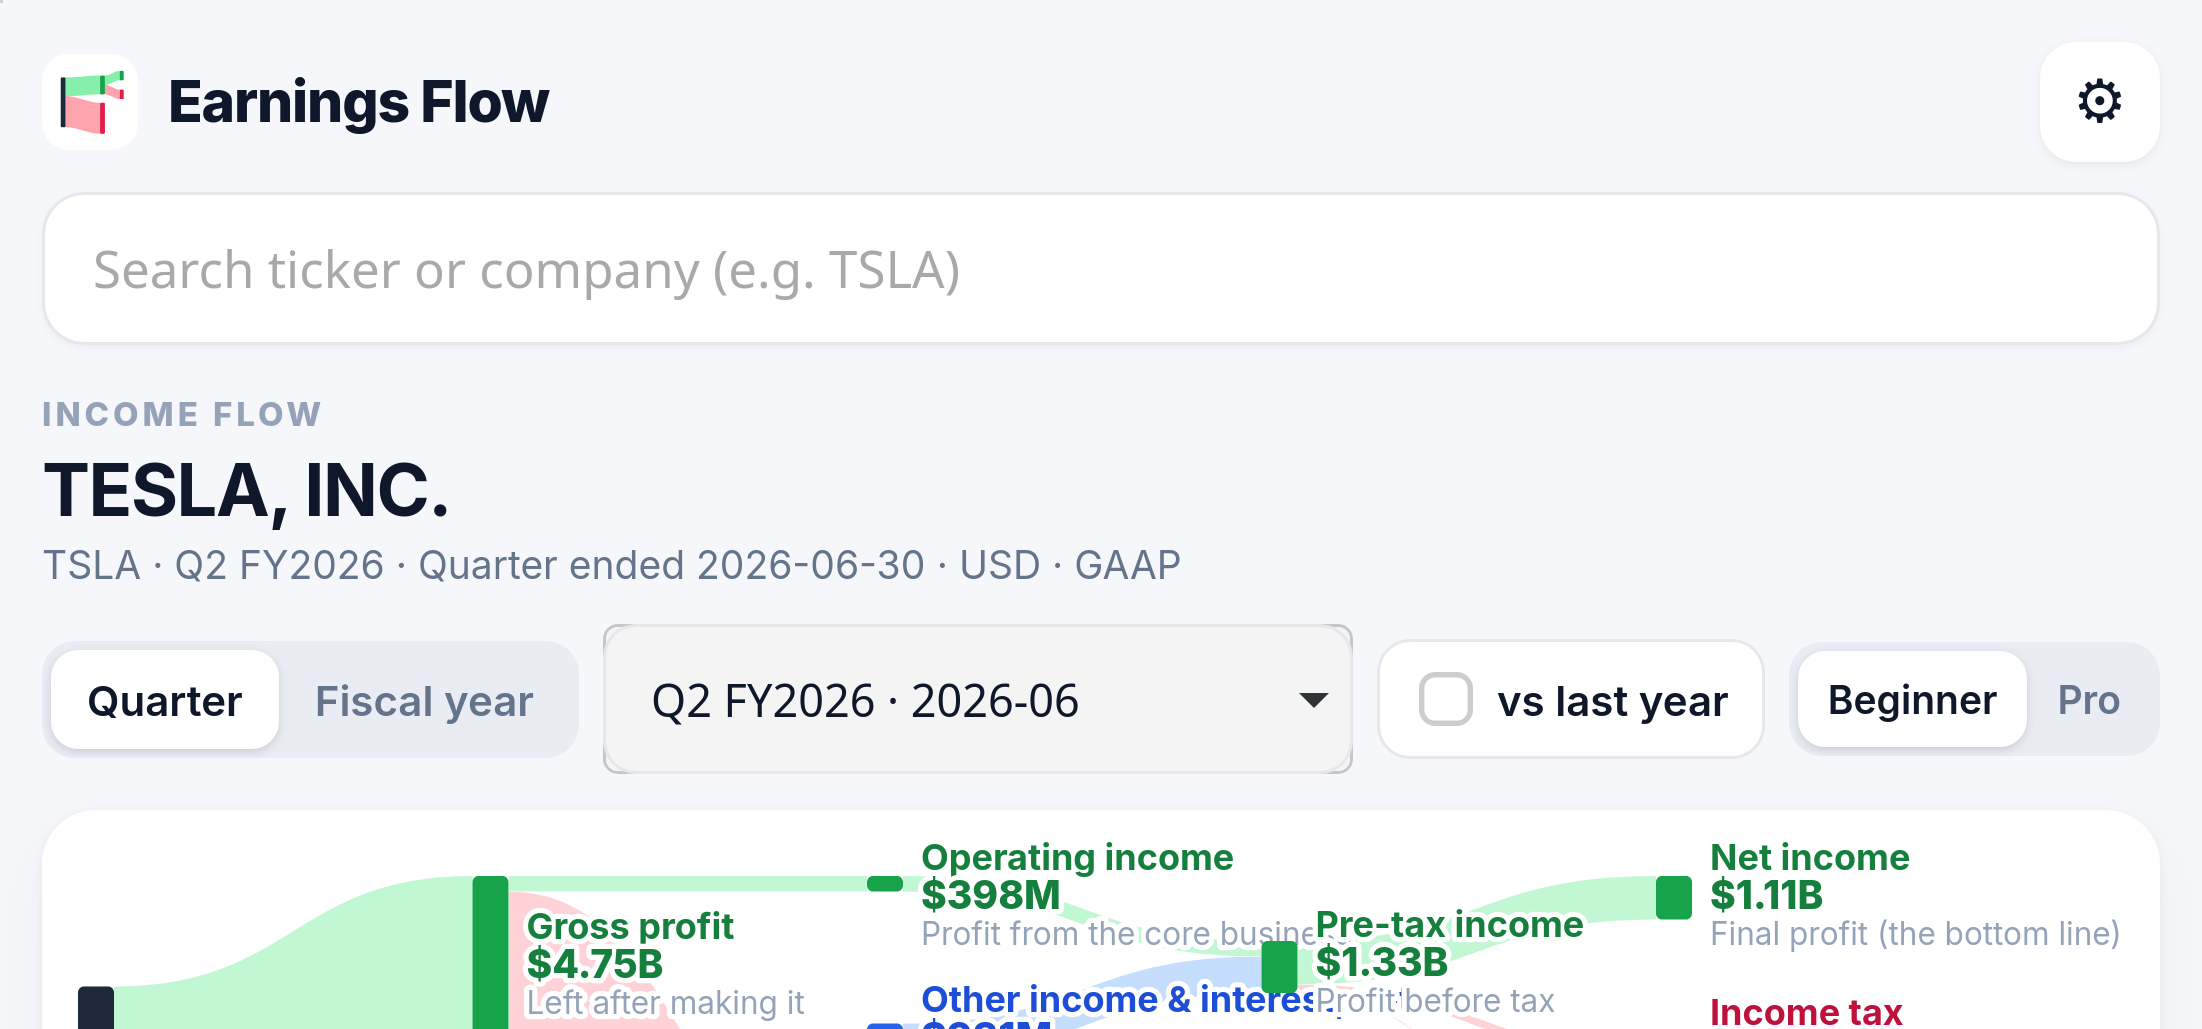
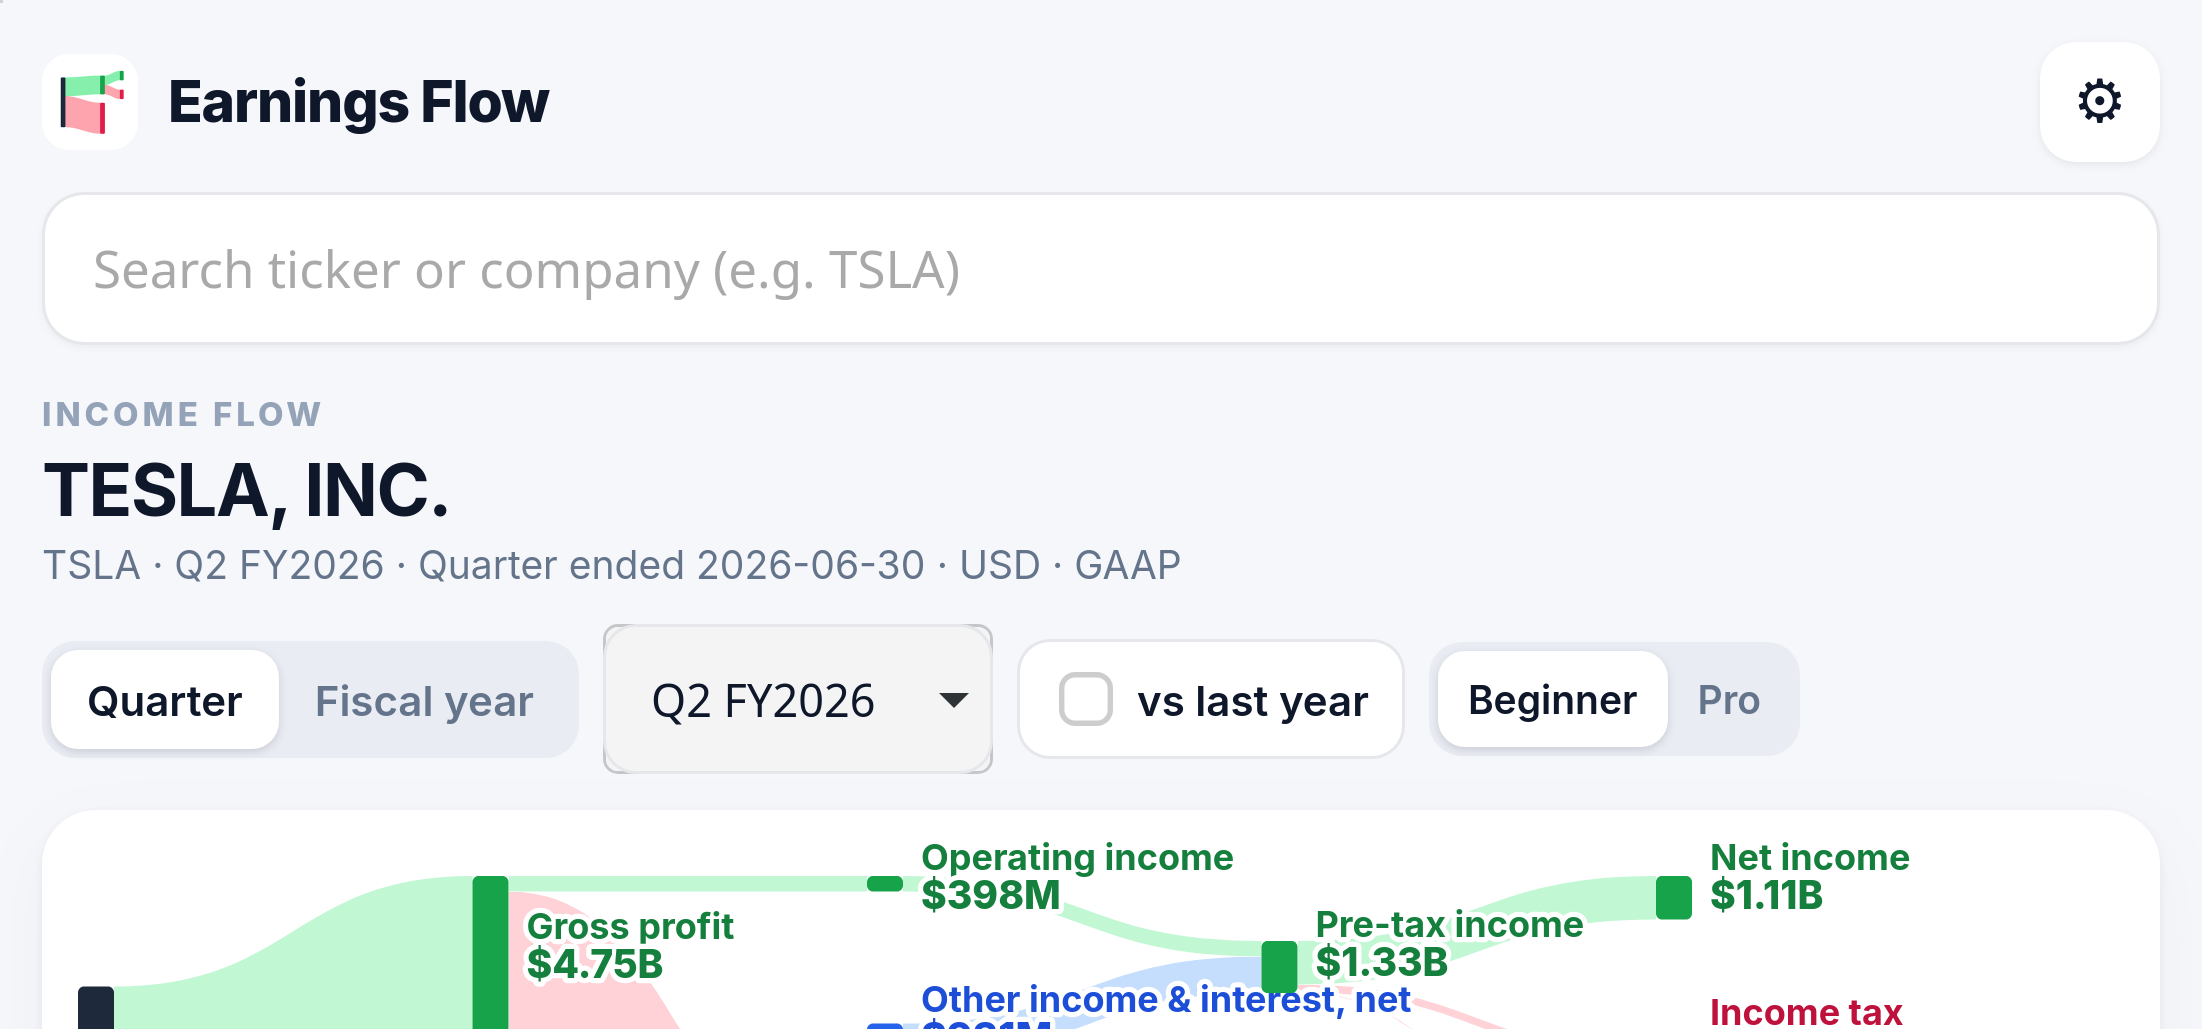
Chart polish: loss ordering, screenshots

diff --git a/src/Chart.tsx b/src/Chart.tsx
@@ -40,7 +40,7 @@ export function Chart({ flow, revenue, pro, yoy, onPick, selected }: {
       .nodeWidth(compact ? 8 : 12)
       .nodePadding(compact ? 30 : 44)
       .nodeAlign((n: any) => n.targetLinks.length === 0 && n.id !== 'revenue' ? Math.max(0, Math.min(...n.sourceLinks.map((l: any) => l.target.depth)) - 1) : n.depth)
-      .nodeSort((a, b) => (RANK[a.kind] - RANK[b.kind]) || (b.value! - a.value!))
+      .nodeSort((a, b) => ((a.id === 'nonop' && a.kind === 'cost' ? 5 : RANK[a.kind]) - (b.id === 'nonop' && b.kind === 'cost' ? 5 : RANK[b.kind])) || (b.value! - a.value!))
       .linkSort((a: any, b: any) => (RANK[a.target.kind] - RANK[b.target.kind]) || (RANK[a.source.kind] - RANK[b.source.kind]))
       .extent([[pad.a0, pad.b0], [L - pad.a1, B - pad.b1]]);
     return gen({ nodes, links });
